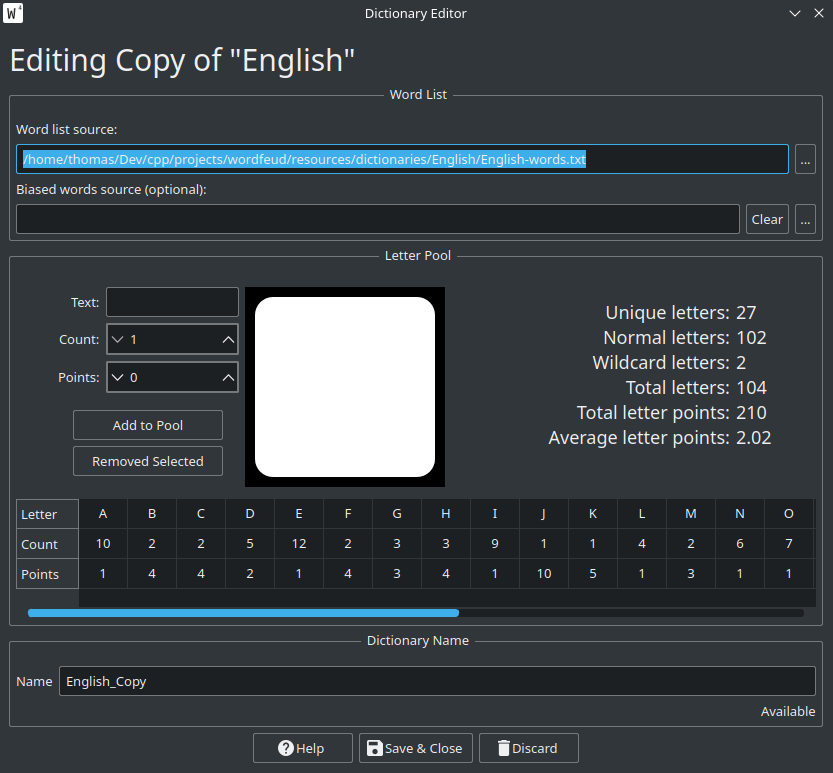
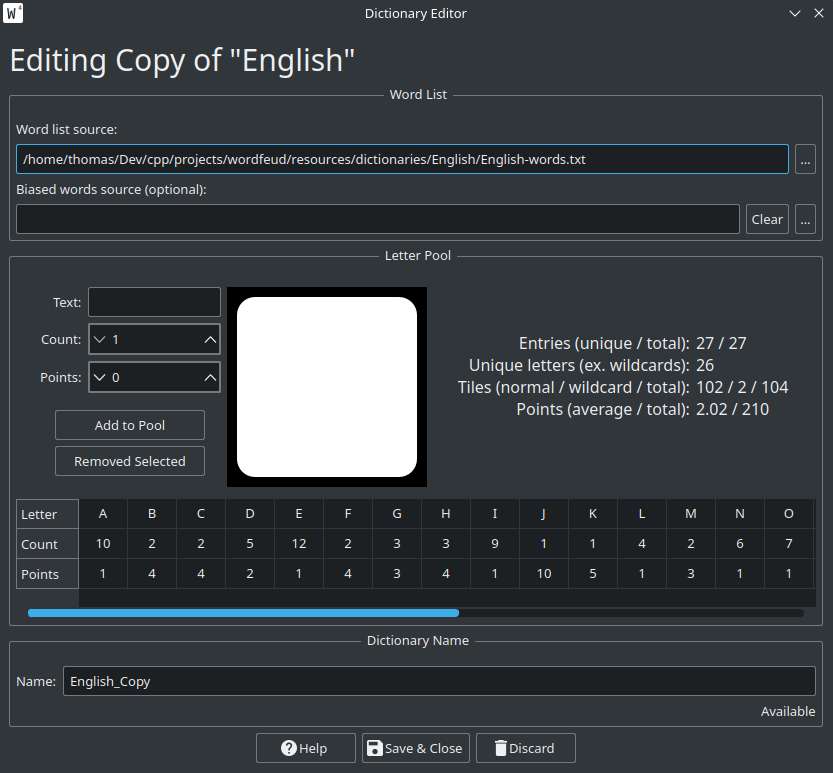
Version bump, slight tweaks
- Updated documentation images
- Letter list loading now checks for count > 0
- Slightly altered phrasing in startup settings pane

diff --git a/src/SettingsDialog.hpp b/src/SettingsDialog.hpp
@@ -118,9 +118,9 @@ namespace wf
             // Startup group
             QGroupBox startup_settings{"Startup"};
             QGridLayout startup_settings_layout;
-            QLabel languages_to_load_label{"Dictionaries to load*:"};
+            QLabel languages_to_load_label{"Dictionaries to load:"};
             QListWidget languages_to_load_list;
-            QLabel languages_to_load_notice{"<i>* Takes effect at program startup</i>"};
+            QLabel languages_to_load_notice{"<i>These settings take effect at program startup</i>"};
 
             // Right player settings
             QGroupBox right_player_settings{"Player 2"};

diff --git a/main.cpp b/main.cpp
@@ -1,6 +1,6 @@
 /*
 wordfeud clone
-version 0.6.0
+version 0.6.1
 https://github.com/Thomilist/wordfeud
 
 Licensed under the MIT License <http://opensource.org/licenses/MIT>
@@ -46,7 +46,7 @@ int main(int argc, char* argv[])
     QCoreApplication::setOrganizationName("Thomilist");
     QCoreApplication::setApplicationName("wordfeud");
 
-    wf::Version version{"0.6.0"};
+    wf::Version version{"0.6.1"};
     QCoreApplication::setApplicationVersion(version.getCurrentVersion());
 
     QFile stylesheet{":/dark/stylesheet.qss"};

diff --git a/src/Language.cpp b/src/Language.cpp
@@ -166,7 +166,10 @@ namespace wf
                         letter_data_split.at(2).toInt()
                     };
 
-                    letter_list.push_back(letter_data);
+                    if (letter_data.count > 0)
+                    {
+                        letter_list.push_back(letter_data);
+                    }
                 }
             }
 
